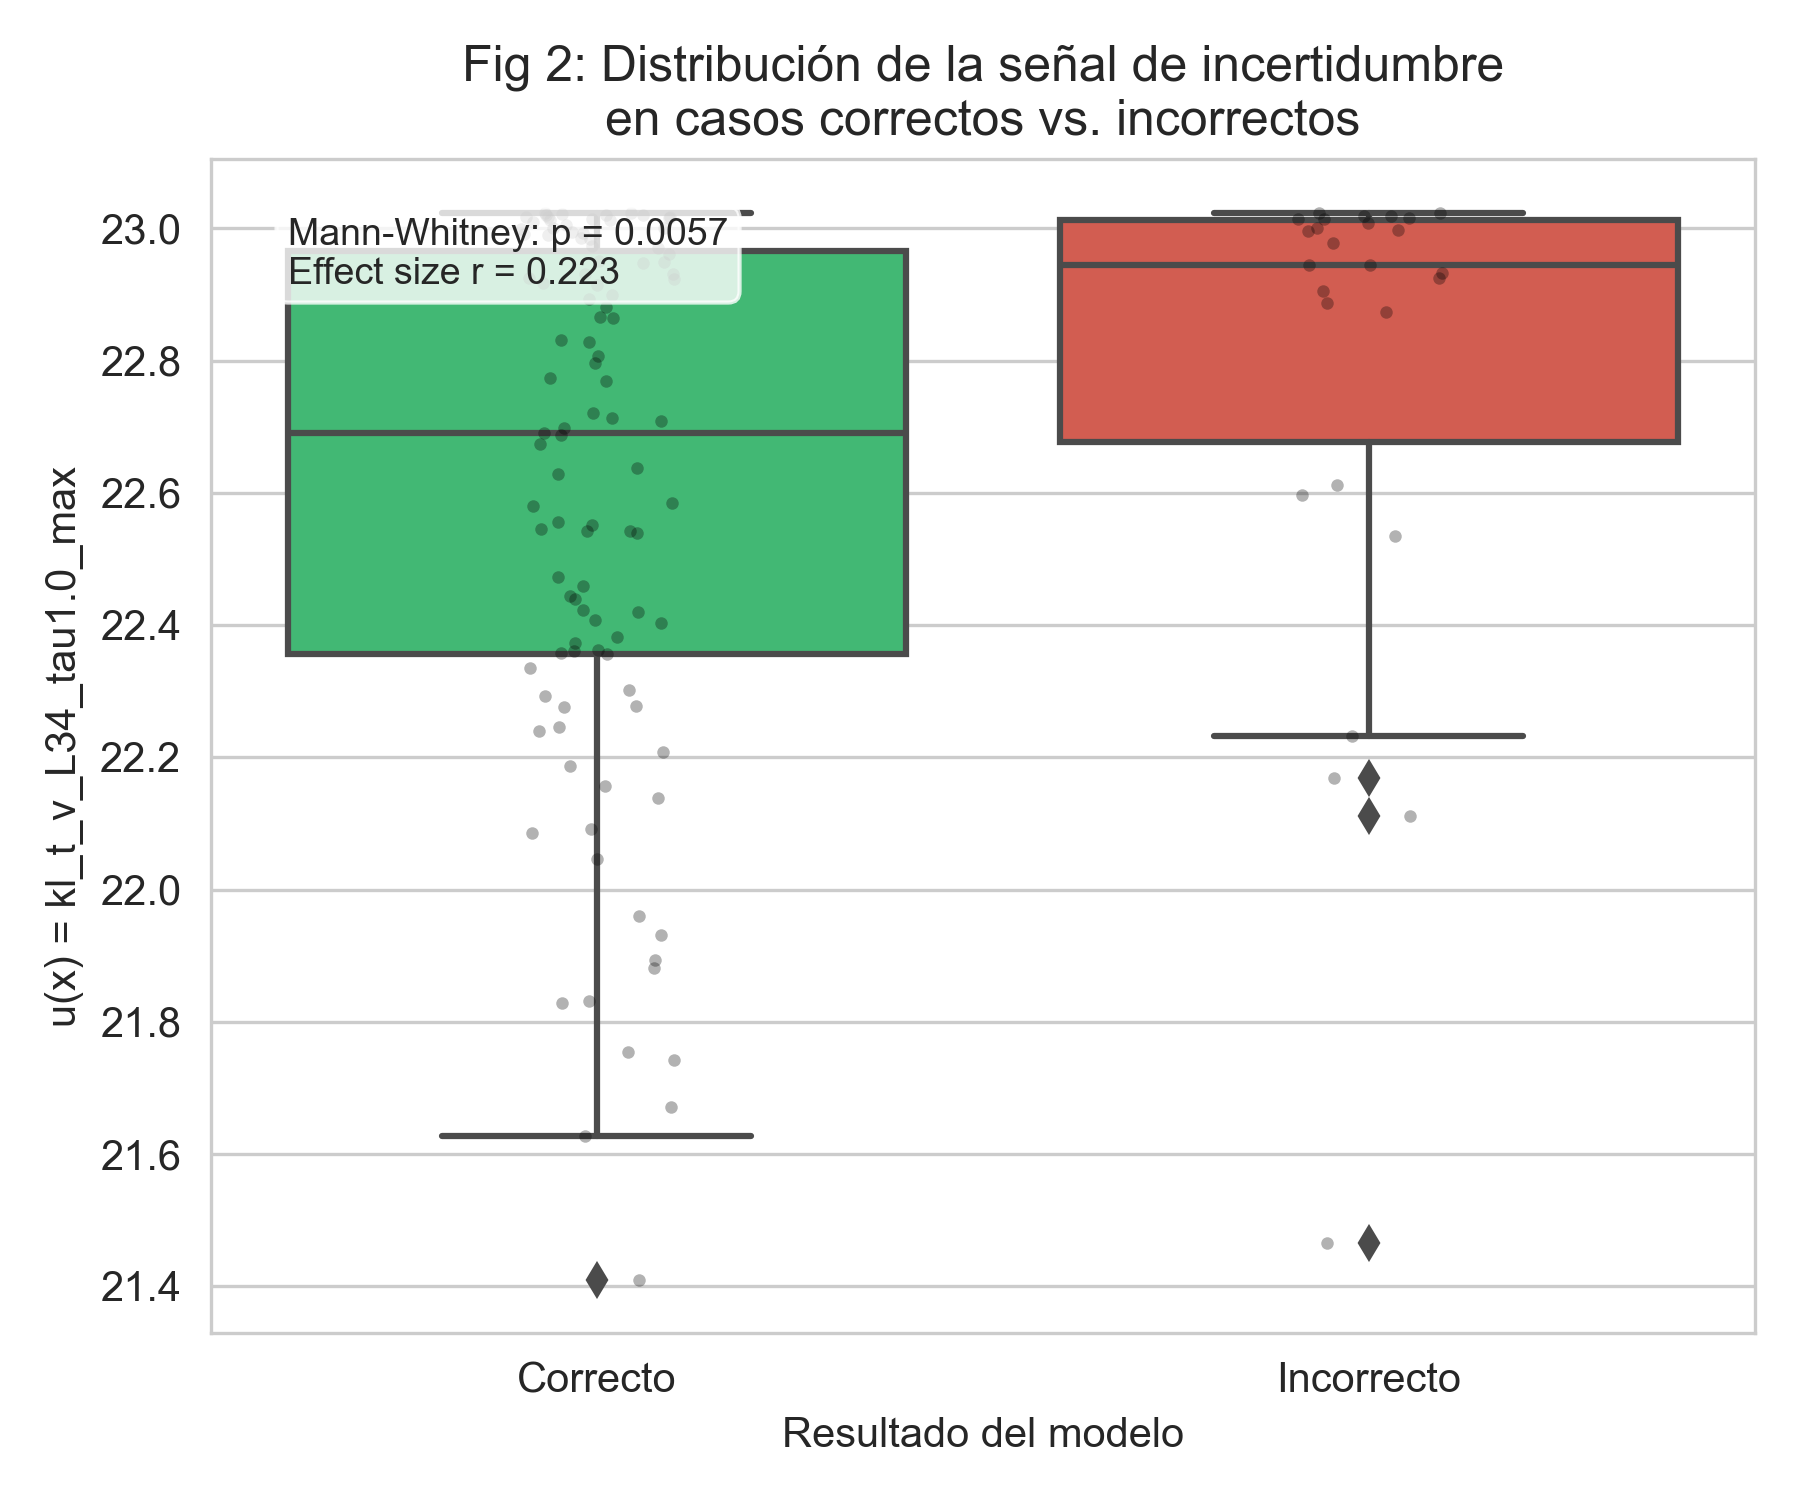
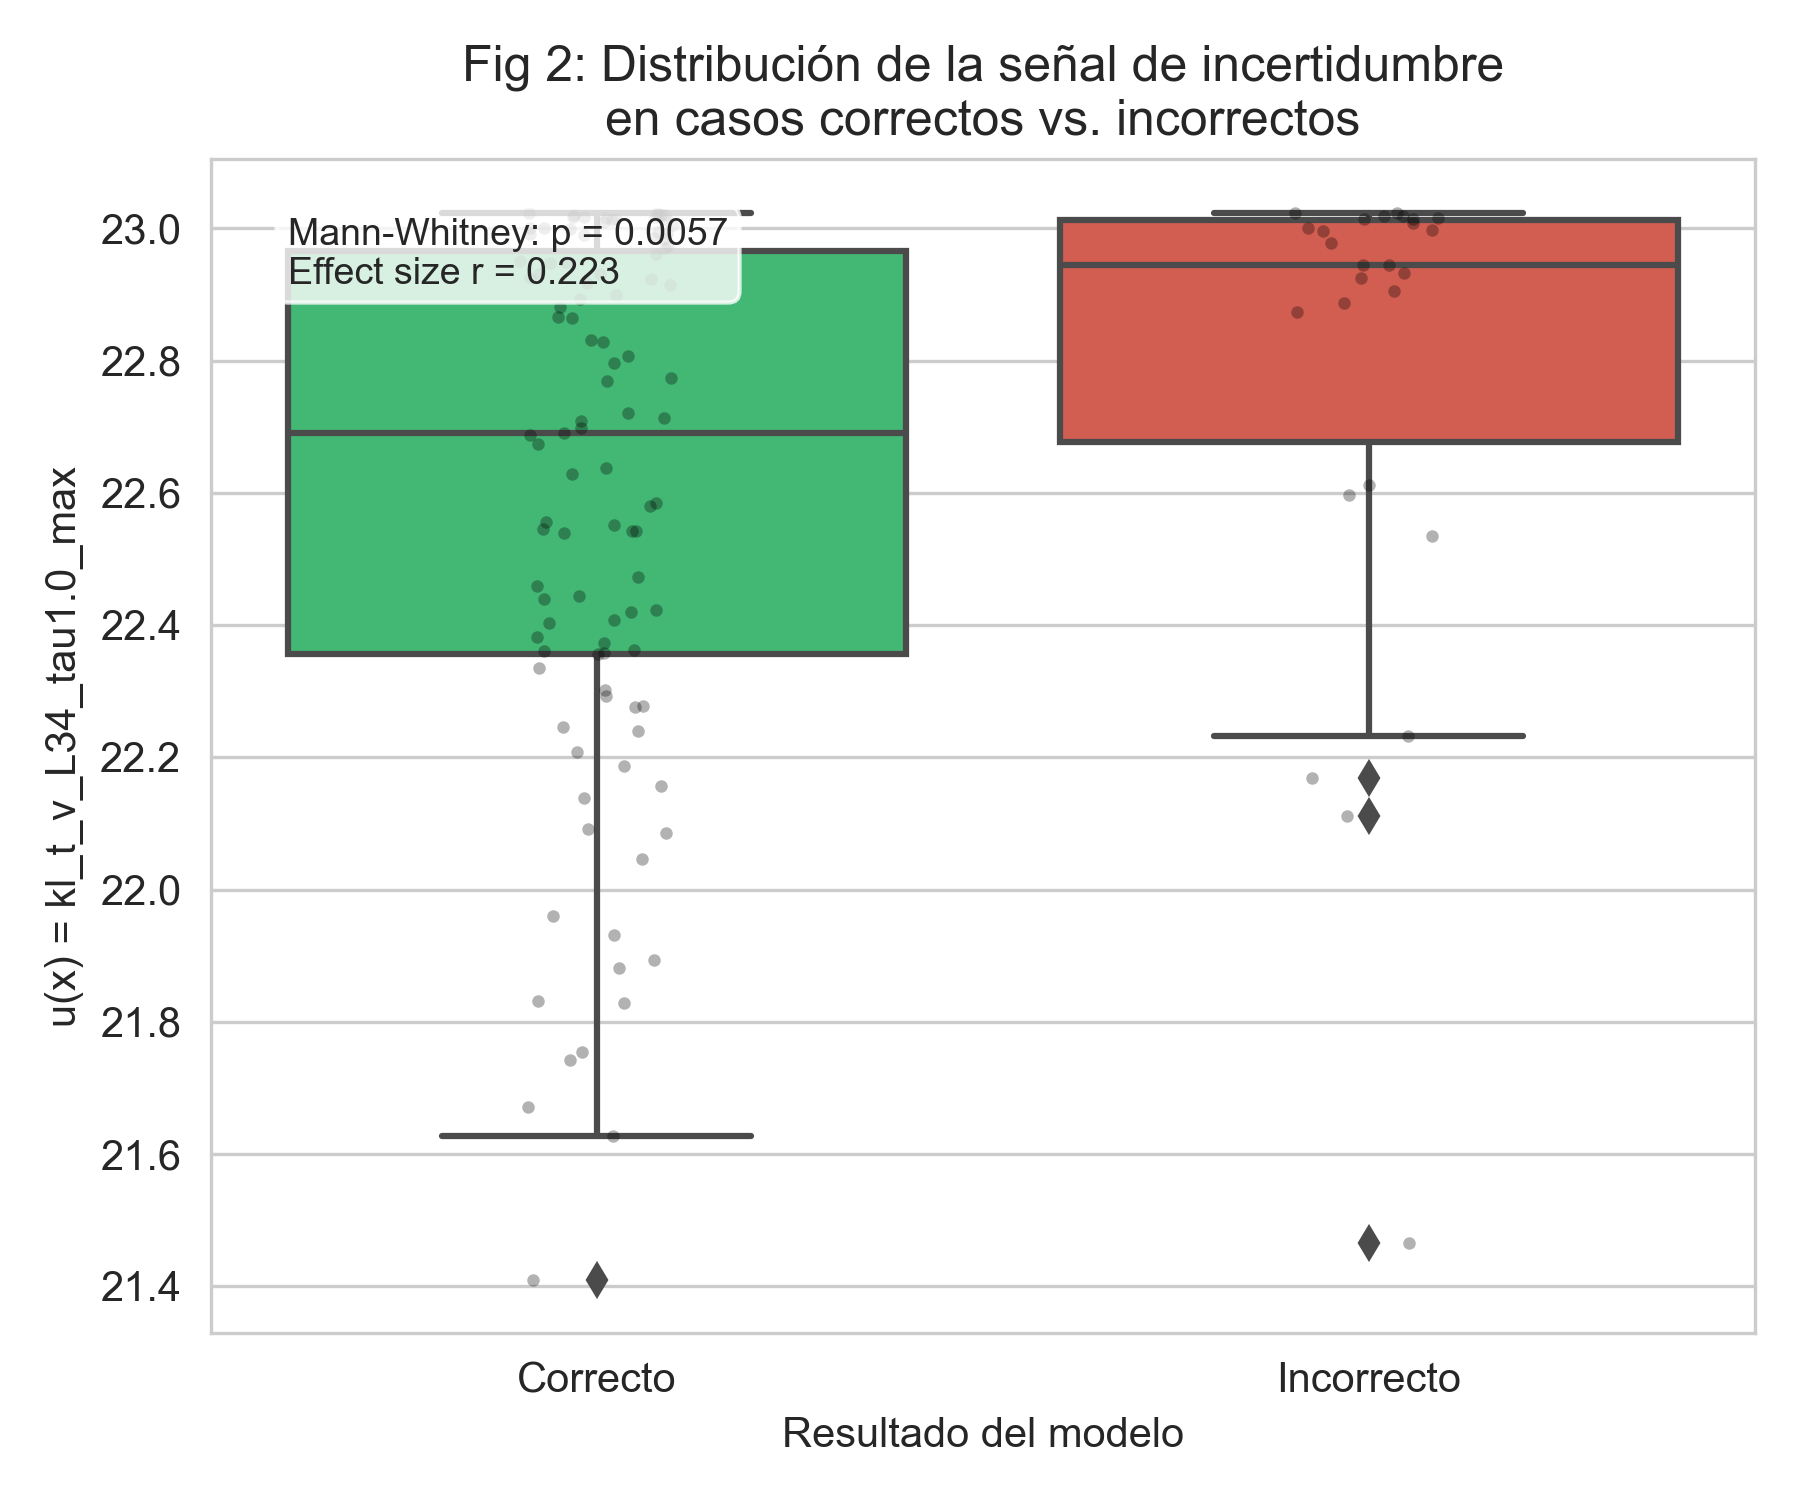
feat: AURC/Excess-AURC como segunda métrica UQ + matriz de correlación entre señales
- src/evaluation.py: aurc/aurc_oracle/excess_aurc en analyze_frame y summary
- src/figures.py: T1 con columnas AURC y Excess-AURC
- Combinación rank(KL)+rank(1-MSP) domina en Excess-AURC (0.407 vs 0.670
  de la KL sola): premia la pureza de la cabeza de la lista de derivación
- Concordancia entre métricas: Spearman(AUROC, Excess) = -0.51 (moderada)
- Correlación entre señales: KL-MSP 0.27 (complementarias), energy-MSP 0.84
  (redundantes), entropy==MSP (idénticas) — fig6 heatmap

diff --git a/results/analisis_aurc.py b/results/analisis_aurc.py
@@ -1,0 +1,130 @@
+"""AURC / Excess-AURC como segunda métrica UQ + correlaciones entre métricas y señales.
+
+Definiciones (Geifman & El-Yaniv 2017, selective prediction):
+    - Ordenar por u(x) descendente (más incierto = se deriva primero).
+    - risk(c) = tasa de error en el c·N MENOS incierto (lo que el modelo responde).
+    - AURC = área bajo risk(coverage), discreta: mean_k risk(k/N). Menor = mejor.
+    - Excess-AURC = AURC - AURC_oracle (oracle: errores al final, risk cae a 0).
+    - Excess normalizado = (AURC - AURC_oracle) / (AURC_random - AURC_oracle):
+      0 = oracle, 1 = azar.
+
+Se calcula para todas las variantes deployable y se responde:
+    1. ¿AUROC y AURC ordenan igual las variantes? (Spearman entre métricas)
+    2. ¿Las señales principales ordenan igual las imágenes? (matriz Spearman)
+"""
+import pandas as pd
+import numpy as np
+from sklearn.metrics import roc_auc_score
+from scipy import stats
+
+df = pd.read_csv("results/results_full.csv")
+df["tau_s"] = df["tau"].astype(str)
+obs = df[df.prompt_id == "P1"].drop_duplicates("image_filename").set_index("image_filename")
+y_all = 1 - obs.correct.values  # 1 = error
+
+
+def aurc(y_error: np.ndarray, u: np.ndarray) -> float:
+    """Área bajo la curva riesgo-cobertura (menor = mejor)."""
+    order = np.argsort(u)  # menos incierto primero
+    y_sorted = y_error[order]
+    n = len(y_sorted)
+    risks = [y_sorted[:k].mean() for k in range(1, n + 1)]
+    return float(np.mean(risks))
+
+
+def aurc_oracle(y_error: np.ndarray) -> float:
+    """AURC del ranking perfecto (errores derivados primero)."""
+    y_sorted = np.sort(y_error)  # aciertos primero: el oracle retiene correctos al responder
+    n = len(y_sorted)
+    risks = [y_sorted[:k].mean() for k in range(1, n + 1)]
+    return float(np.mean(risks))
+
+
+A_ORACLE = aurc_oracle(y_all)
+A_RANDOM = float(y_all.mean())  # riesgo constante del azar
+print(f"Base: error rate = {y_all.mean():.3f} | AURC oracle = {A_ORACLE:.4f} | AURC azar = {A_RANDOM:.4f}")
+
+# --------------------------------------------------------------------------
+# 1) AURC y Excess-AURC para todas las variantes deployable + comparación AUROC
+# --------------------------------------------------------------------------
+print("\n=== Variantes: AUROC vs AURC (top 15 por Excess-AURC normalizado) ===")
+rows = []
+for (st, layer, tau, pooling), g in df[df.prompt_id == "P1"].groupby(
+        ["signal_type", "layer", "tau_s", "pooling"]):
+    if pooling == "roi":
+        continue
+    g = g.set_index("image_filename")
+    common = obs.index.intersection(g.index)
+    u = g.loc[common, "value"].values.astype(float)
+    y = 1 - obs.loc[common, "correct"].values
+    m = ~np.isnan(u)
+    if m.sum() < 30:
+        continue
+    a = roc_auc_score(y[m], u[m])
+    arc = aurc(y[m], u[m])
+    exc = (arc - A_ORACLE) / (A_RANDOM - A_ORACLE)
+    rows.append({"variante": f"{st}_L{layer}_tau{tau}_{pooling}",
+                 "AUROC": a, "AURC": arc, "ExcessN": exc})
+res = pd.DataFrame(rows)
+res["AUROC"] = res.AUROC.round(3)
+res["AURC"] = res.AURC.round(4)
+res["ExcessN"] = res.ExcessN.round(3)
+print(res.nsmallest(15, "ExcessN").to_string(index=False))
+
+rho_m, p_m = stats.spearmanr(res.AUROC, res.ExcessN)
+print(f"\n(a) ¿AUROC y Excess-AURC ordenan igual las variantes?")
+print(f"    Spearman(AUROC, ExcessN) = {rho_m:+.3f} (p={p_m:.2e}) — nota: signo negativo esperado")
+print(f"    (AUROC alto = bueno; Excess bajo = bueno -> correlación negativa = métricas de acuerdo)")
+
+# --------------------------------------------------------------------------
+# 2) Señales principales: tabla comparativa AUROC / AURC / ExcessN
+# --------------------------------------------------------------------------
+print("\n=== Señales principales (P1, N=129) ===")
+obs_df = df[df.prompt_id == "P1"].drop_duplicates("image_filename").set_index("image_filename")
+win = df[(df.prompt_id == "P1") & (df.signal_type == "kl_t_v") & (df.pooling == "max")
+         & (df.tau_s == "1.0")].set_index("image_filename")["value"]
+n = len(obs_df)
+senales = {
+    "KL(t||v) max tau1": win[obs_df.index].values,
+    "1-MSP": (1 - obs_df.msp_answer).values,
+    "entropy": obs_df.entropy_answer.values,
+    "energy": obs_df.energy_answer.values,
+    "rank(KL)+rank(1-MSP)": (win[obs_df.index].rank() / n
+                             + (1 - obs_df.msp_answer).rank() / n).values,
+}
+print(f"{'señal':24s} {'AUROC':>7s} {'AURC':>8s} {'ExcessN':>8s}")
+main_res = {}
+for nombre, u in senales.items():
+    a = roc_auc_score(y_all, u)
+    arc = aurc(y_all, u)
+    exc = (arc - A_ORACLE) / (A_RANDOM - A_ORACLE)
+    main_res[nombre] = (a, arc, exc)
+    print(f"{nombre:24s} {a:7.3f} {arc:8.4f} {exc:8.3f}")
+
+# --------------------------------------------------------------------------
+# 3) Matriz de correlación entre señales (¿ordenan igual las imágenes?)
+# --------------------------------------------------------------------------
+print("\n=== (b) Matriz Spearman entre señales (rankings de imágenes) ===")
+nombres = list(senales.keys())
+mat = np.ones((len(nombres), len(nombres)))
+for i, s1 in enumerate(nombres):
+    for j, s2 in enumerate(nombres):
+        if i < j:
+            mat[i, j] = mat[j, i] = stats.spearmanr(senales[s1], senales[s2]).statistic
+mat_df = pd.DataFrame(mat, index=nombres, columns=nombres).round(2)
+print(mat_df.to_string())
+
+# Guardar heatmap
+try:
+    import matplotlib.pyplot as plt
+    import seaborn as sns
+    fig, ax = plt.subplots(figsize=(7, 6))
+    sns.heatmap(mat_df, annot=True, cmap="RdBu_r", center=0, vmin=-1, vmax=1,
+                square=True, ax=ax, fmt=".2f")
+    ax.set_title("Correlación (Spearman) entre señales UQ — P1")
+    plt.tight_layout()
+    out = "figures/fig6_correlacion_senales.png"
+    plt.savefig(out, dpi=300)
+    print(f"\n[fig] Guardada: {out}")
+except Exception as e:
+    print(f"\n[fig] No se pudo generar heatmap: {e}")

diff --git a/src/evaluation.py b/src/evaluation.py
@@ -343,6 +343,40 @@ def accuracy_coverage(y_correct: np.ndarray, signal: np.ndarray, steps: list[flo
 
 
 # ------------------------------------------------------------------------------
+# AURC / Excess-AURC (métrica de selective prediction, Geifman & El-Yaniv 2017)
+# ------------------------------------------------------------------------------
+def aurc(y_correct: np.ndarray, signal: np.ndarray) -> float:
+    """Área bajo la curva riesgo-cobertura (menor = mejor).
+
+    Ordena de menor a mayor u(x) (el modelo responde primero a los más seguros)
+    y promedia la tasa de error del subconjunto retenido para cada cobertura.
+    """
+    order = np.argsort(signal)  # menos incierto primero
+    y_err_sorted = 1 - y_correct[order]
+    n = len(y_err_sorted)
+    risks = [y_err_sorted[:k].mean() for k in range(1, n + 1)]
+    return float(np.mean(risks))
+
+
+def aurc_oracle(y_correct: np.ndarray) -> float:
+    """AURC del ranking perfecto (errores derivados primero)."""
+    y_err_sorted = np.sort(1 - y_correct)  # aciertos primero
+    n = len(y_err_sorted)
+    risks = [y_err_sorted[:k].mean() for k in range(1, n + 1)]
+    return float(np.mean(risks))
+
+
+def excess_aurc(y_correct: np.ndarray, signal: np.ndarray) -> dict[str, float]:
+    """Excess-AURC normalizado: 0 = oracle, 1 = azar (menor = mejor)."""
+    a = aurc(y_correct, signal)
+    a_oracle = aurc_oracle(y_correct)
+    a_random = float((1 - y_correct).mean())
+    norm = (a - a_oracle) / (a_random - a_oracle) if a_random > a_oracle else np.nan
+    return {"aurc": a, "aurc_oracle": a_oracle, "aurc_random": a_random,
+            "excess_aurc_norm": float(norm)}
+
+
+# ------------------------------------------------------------------------------
 # Análisis completo de una señal (ya como frame imagen × valor)
 # ------------------------------------------------------------------------------
 def analyze_frame(
@@ -382,6 +416,7 @@ def analyze_frame(
     result["mann_whitney"] = mann_whitney_effect(y_correct, signal)
     result["sens_80spec"] = sensitivity_at_specificity(y_correct, signal, target_spec=0.80)
     result["acc_cov"] = accuracy_coverage(y_correct, signal)
+    result["aurc"] = excess_aurc(y_correct, signal)
 
     if master is not None and "cdr_grade" in master.columns:
         merged = frame.merge(master[["image_filename", "cdr_grade"]], on="image_filename", how="left")
@@ -417,6 +452,10 @@ def print_signal_report(result: dict[str, Any]) -> None:
     s80 = result["sens_80spec"]
     print(f"Sensitivity@80%Spec: {s80['sensitivity']:.3f} (umbral={s80['threshold']:.4f})")
 
+    arc = result["aurc"]
+    print(f"AURC: {arc['aurc']:.4f} (oracle={arc['aurc_oracle']:.4f}, azar={arc['aurc_random']:.4f})"
+          f" | Excess-AURC norm: {arc['excess_aurc_norm']:.3f} (0=oracle, 1=azar)")
+
     if "h4_spearman" in result:
         h4 = result["h4_spearman"]
         print(f"H4 Spearman (CDR): rho={h4['rho']:.3f}, p={h4['p_value']:.4f} (n={h4['n']})")
@@ -435,6 +474,8 @@ def _summary_row(r: dict[str, Any], prompt: str) -> dict[str, Any]:
         "auprc": r["auprc"]["point"],
         "auprc_ci_low": r["auprc"]["ci_low"],
         "auprc_ci_high": r["auprc"]["ci_high"],
+        "aurc": r["aurc"]["aurc"],
+        "excess_aurc_norm": r["aurc"]["excess_aurc_norm"],
         "mannwhitney_p": r["mann_whitney"]["p_value"],
         "effect_size_r": r["mann_whitney"]["r"],
         "sens_80spec": r["sens_80spec"]["sensitivity"],

diff --git a/src/figures.py b/src/figures.py
@@ -36,6 +36,7 @@ from src.evaluation import (
     rank_combination_frame,
     select_winner,
     sensitivity_at_specificity,
+    excess_aurc,
     signal_frame,
 )
 
@@ -282,11 +283,14 @@ def table_t1(signals: dict[str, pd.DataFrame], out_path: Path) -> pd.DataFrame:
         auroc = roc_auc_score(y_error, vals)
         auprc = average_precision_score(y_error, vals)
         sens = sensitivity_at_specificity(1 - y_error, vals, target_spec=0.80)
+        arc = excess_aurc(1 - y_error, vals)
 
         rows.append({
             "Señal": name,
             "AUROC": f"{auroc:.3f}",
             "AUPRC": f"{auprc:.3f}",
+            "AURC": f"{arc['aurc']:.4f}",
+            "Excess-AURC": f"{arc['excess_aurc_norm']:.3f}",
             "Sens@80%Esp": f"{sens['sensitivity']:.3f}",
             "Costo": "1×",
         })
@@ -296,7 +300,8 @@ def table_t1(signals: dict[str, pd.DataFrame], out_path: Path) -> pd.DataFrame:
         base_acc = first["correct"].mean()
         rows.insert(0, {
             "Señal": f"Accuracy base del modelo ({base_acc:.3f})",
-            "AUROC": "—", "AUPRC": "—", "Sens@80%Esp": "—", "Costo": "—",
+            "AUROC": "—", "AUPRC": "—", "AURC": "—", "Excess-AURC": "—",
+            "Sens@80%Esp": "—", "Costo": "—",
         })
 
     t1 = pd.DataFrame(rows)

diff --git a/Reporte_Experimento_BIP2026.md b/Reporte_Experimento_BIP2026.md
@@ -150,19 +150,22 @@ Estadísticos reales sobre las 129 imágenes, prompt P1, **τ=1** (la temperatur
 
 ## 6. Resultados de detección de errores (lo importante)
 
-**La tarea:** ordenar las 129 imágenes por u(x) y ver si los 26 errores quedan arriba. Métrica: AUROC (0.5 = azar, 1.0 = perfecto). IC = intervalo de confianza bootstrap del 95% (9.999 remuestreos BCa).
+**La tarea:** ordenar las 129 imágenes por u(x) y ver si los 26 errores quedan arriba. Métricas: **AUROC** (0.5 = azar, 1.0 = perfecto; ranking global) y **AURC / Excess-AURC** (área bajo la curva riesgo-cobertura de selective prediction — el error del modelo integrado sobre todos los niveles de derivación; Excess normalizado: 0 = oracle, 1 = azar, menor = mejor). IC = intervalo de confianza bootstrap del 95% (9.999 remuestreos BCa).
 
-| Señal (P1)                                   | AUROC     | IC 95%             | p (Mann-Whitney) |
-| -------------------------------------------- | --------- | ------------------ | ---------------- |
-| **KL congelada (`kl_t_v` max τ=1, capa 34)** | **0.661** | [0.522, 0.772]     | 0.006            |
-| 1−MSP (baseline gratis)                      | 0.624     | [0.491, 0.739]     | 0.026            |
-| entropy (baseline)                           | 0.624     | [0.491, 0.739]     | 0.026            |
-| energy (baseline)                            | 0.560     | [0.432, 0.680]     | 0.175            |
-| **Combinación rank(KL)+rank(1−MSP)**         | **0.698** | **[0.596, 0.787]** | **0.001**        |
+| Señal (P1)                                   | AUROC     | IC 95%             | AURC     | Excess-AURC | p (Mann-Whitney) |
+| -------------------------------------------- | --------- | ------------------ | -------- | ----------- | ---------------- |
+| **KL congelada (`kl_t_v` max τ=1, capa 34)** | **0.661** | [0.522, 0.772]     | 0.1425   | 0.670       | 0.006            |
+| 1−MSP (baseline gratis)                      | 0.624     | [0.491, 0.739]     | 0.1536   | 0.732       | 0.026            |
+| entropy (baseline)                           | 0.624     | [0.491, 0.739]     | 0.1536   | 0.732       | 0.026            |
+| energy (baseline)                            | 0.560     | [0.432, 0.680]     | 0.1828   | 0.895       | 0.175            |
+| **Combinación rank(KL)+rank(1−MSP)**         | **0.698** | **[0.596, 0.787]** | **0.0955** | **0.407** | **0.001**        |
 
 Lectura honesta:
-- La KL sola **supera al azar con significancia** (su IC excluye 0.5) y cumple el objetivo del proyecto (≥ 0.65) justo.
+- La KL sola **supera al azar con significancia** (su IC excluye 0.5) y cumple el objetivo del proyecto (≥ 0.65) justo. También es la #1 entre las 97 variantes por Excess-AURC — las dos métricas coinciden.
 - La ventaja sobre el baseline gratis (1−MSP) es **modesta** (+0.037): la KL no reemplaza a la confianza del modelo, la complementa (sección 7).
+- **El AURC amplifica el veredicto sobre la combinación:** en Excess-AURC la combinación marca 0.407 vs 0.670 de la KL sola — 39% más cerca del oracle. El AURC premia acertar en la *cabeza* de la lista de derivación, que es donde la combinación es fuerte (57% de precisión en los 7 casos más inciertos vs 29% de la KL sola).
+- **Concordancia entre métricas:** Spearman(AUROC, Excess-AURC) = −0.51 sobre las variantes — se correlacionan moderadamente pero no son redundantes: AUROC evalúa el ranking global, AURC los puntos operativos de triage.
+- **Correlación entre señales** (Spearman, `figures/fig6_correlacion_senales.png`): KL⊥MSP = 0.27 (complementarias), KL⊥energy = −0.01 (totalmente independientes), entropy≡MSP = 1.00 (la misma señal), energy–MSP = 0.84 (redundantes — por eso energy no aporta).
 - En P4 (prompt con rol de oftalmólogo) todo es más débil: KL 0.614, MSP 0.629, combinación 0.654.
 
 **Triage (accuracy-coverage, P1):** si se deriva al oftalmólogo el 50% de casos con mayor u(x), la accuracy en el 50% que el modelo responde solo sube de **79.8% → 89.1%**.
